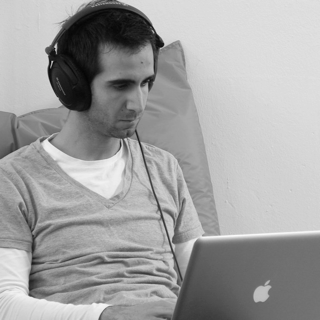
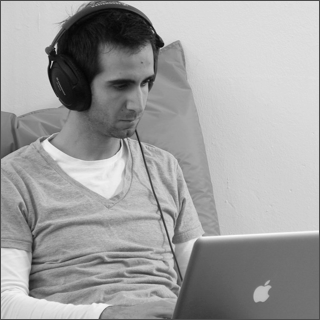
Cleanup!

diff --git a/stylesheets/screen.css b/stylesheets/screen.css
@@ -148,7 +148,6 @@ section#page h1 { margin: 0em 0 1em 0; }
 
 /* about me */
 div.about { border-bottom: 1px solid #d3d3d3; border-top: 1px solid #d3d3d3; padding: 1.2em 0 0 0; text-align: center; }
-div.container img { border: 1px solid #4d4d4d; }
 div.container figcaption { font-size: 0.9em; font-style: italic; text-align: center; }
 
 /* table of contents */

diff --git a/about.md b/about.md
@@ -19,9 +19,9 @@ Another part of my life evolves around [Bread and Pepper]. A company [Wouter], [
 
 ## Sofware
 
-Most of the tools I use are open source and I love the open culture of software development. Take a look at my [Github page] to find [django-userena] -- an account management application for [Django] --, [dotfiles] and some random bytes.
+Most of the tools I use are open source and I love the open culture of software development. Take a look at my [Github page] to find [django-userena], an account management application for [Django], my [dotfiles] and some random bytes.
 
-My current editor is [Vim], terminal of choice is the new [iTerm2] terminal. [1Password] that generates a random password for every service that I use. [Chrome] and [Safari] for browsing the web and [Things] to manage my todo's. Most of the day I'm listening to [Di.fm] or [Somafm] radio.
+My current editor is [Vim], terminal of choice is the new [iTerm2] terminal. [1Password] that generates a random password for every service that I use. [Safari] for browsing the web and [Things] to manage my tasks. Most of the day I'm listening to [Di.fm] or [Somafm] radio.
 
 [Django]: http://djangoproject.com "Django's homepage"
 [Github page]: https://github.com/wunki "Wunki's Github page"
@@ -30,7 +30,6 @@ My current editor is [Vim], terminal of choice is the new [iTerm2] terminal. [1P
 [Vim]: http://www.vim.org "Vim homepage"
 [iTerm2]: http://sites.google.com/site/iterm2home/ "Iterm2 Homepage"
 [1Password]: http://agilewebsolutions.com/onepassword "1Password homepage"
-[Chrome]: http://www.google.com/chrome "Chrome's homepage"
 [Safari]: http://www.apple.com/safari/
 [Things]: http://culturedcode.com "CulturedCode homepage"
 [Di.fm]: http://di.fm "Digitally Imported homepage"
